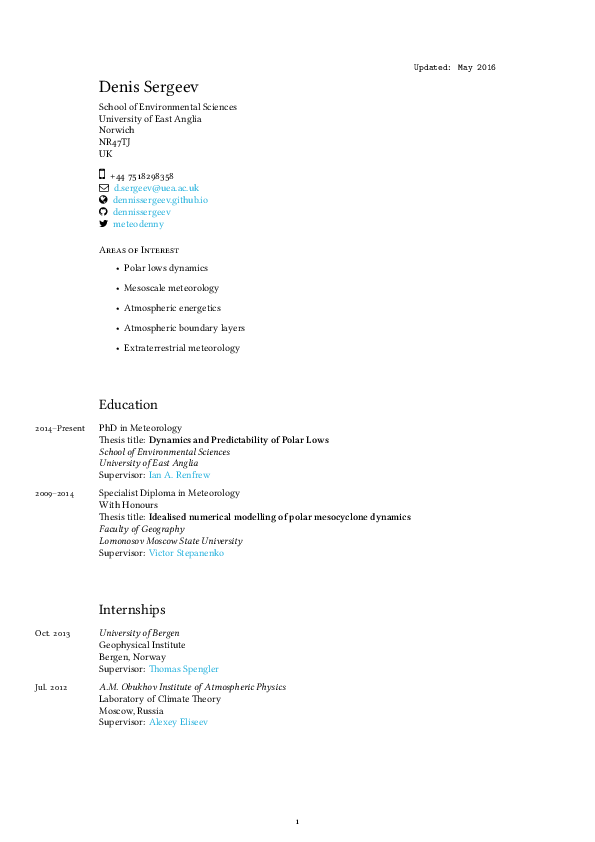
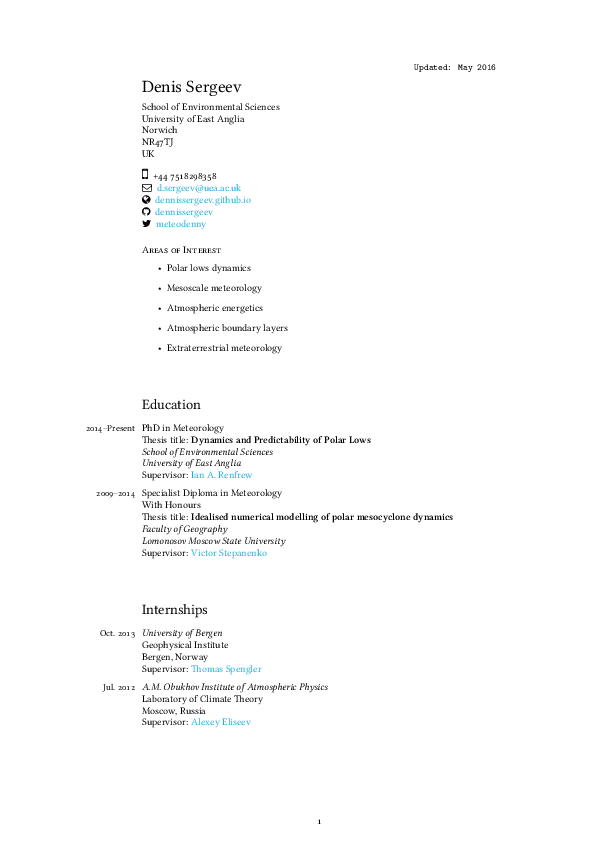
add teaching and computer skills

diff --git a/template.tex b/template.tex
@@ -48,7 +48,8 @@ $endif$
 %--------------------------------
 \usepackage{marginnote}
 \newcommand{\note}[1]{\marginnote{\small #1}}
-\renewcommand*{\raggedleftmarginnote}{}
+%\renewcommand*{\raggedleftmarginnote}{}
+\setlength{\marginparwidth}{40mm}
 \setlength{\marginparsep}{7pt}
 \reversemarginpar
 
@@ -156,9 +157,30 @@ $if(fieldwork.location)$$fieldwork.location$\\$endif$
 $endfor$
 \vspace{20pt}
 
+\section*{Teaching experience}
+\noindent
+$for(teaching)$
+\note{$teaching.years$}$if(teaching.title)$\textbf{$teaching.title$}\\$endif$
+$if(teaching.institution)$$teaching.institution$\\$endif$
+$if(teaching.courses)$Courses:
+\begin{itemize}
+    $for(teaching.courses)$
+      \item \small{$teaching.courses$}
+    $endfor$
+\end{itemize}
+$endif$
+$endfor$
+\vspace{20pt}
+
+\section*{Computer skills}
+$for(skills)$
+\note{$skills.group$}$if(skills.forte)$\textbf{$skills.forte$},$endif$
+$skills.skill$\\
+$endfor$
+
 \section*{Languages}
 $for(languages)$
-\emph{$languages.language$} ($languages.proficiency$)\\
+\note{$languages.language$} $languages.proficiency$\\
 $endfor$
 
 \end{document}
